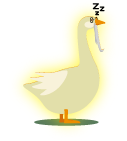
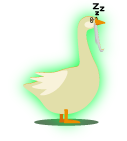
Sleeping geese brightness update, final commit

Changed region(s): [[0.1417, 0.0567, 0.874, 0.9362]]

diff --git a/src/view/Main.java b/src/view/Main.java
@@ -57,7 +57,7 @@ public class Main extends PApplet {
 		images[21]=loadImage("images/Net.png");
 		images[22]=loadImage("images/initial-template.png");
 		controller=new Controller(this,images);
-		screen=3;
+		screen=1;
 		
 	
 		
@@ -93,8 +93,8 @@ public class Main extends PApplet {
 			break;
 			
 		}
-		fill(0);
-		text(mouseX+","+mouseY, mouseX, mouseY);
+		/*fill(0);
+		text(mouseX+","+mouseY, mouseX, mouseY);*/
 		
 	}
 	
